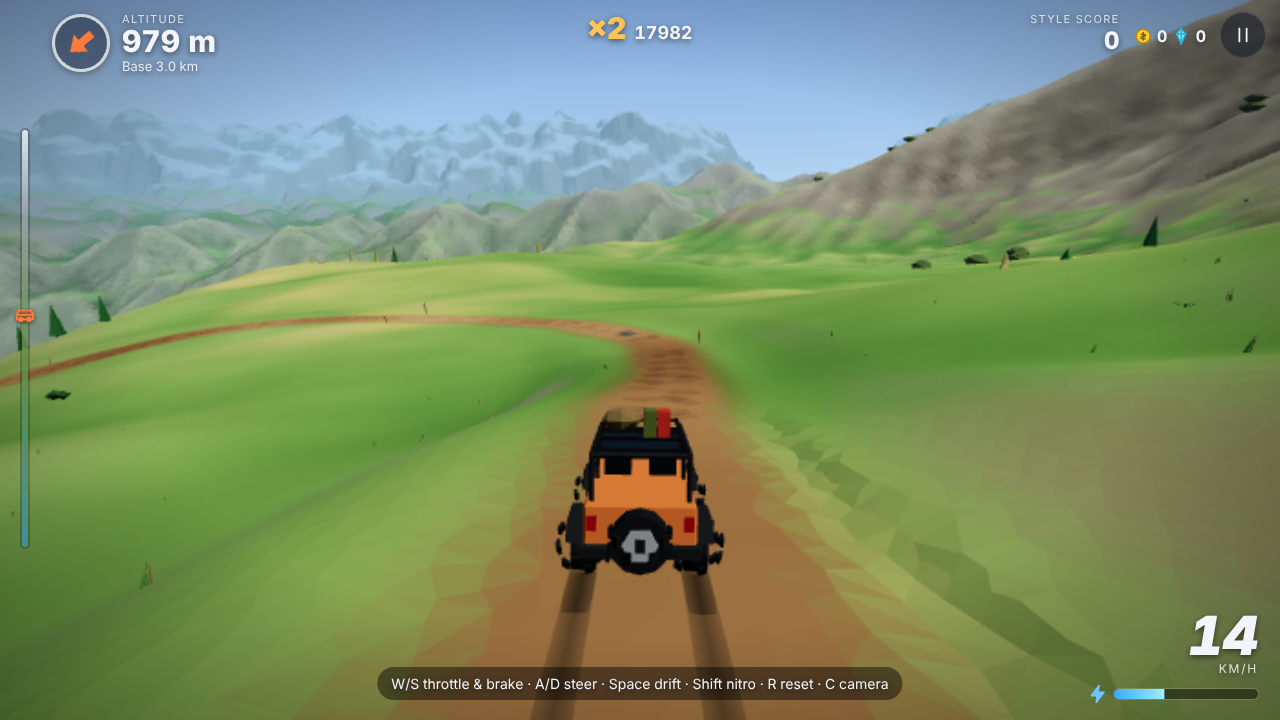
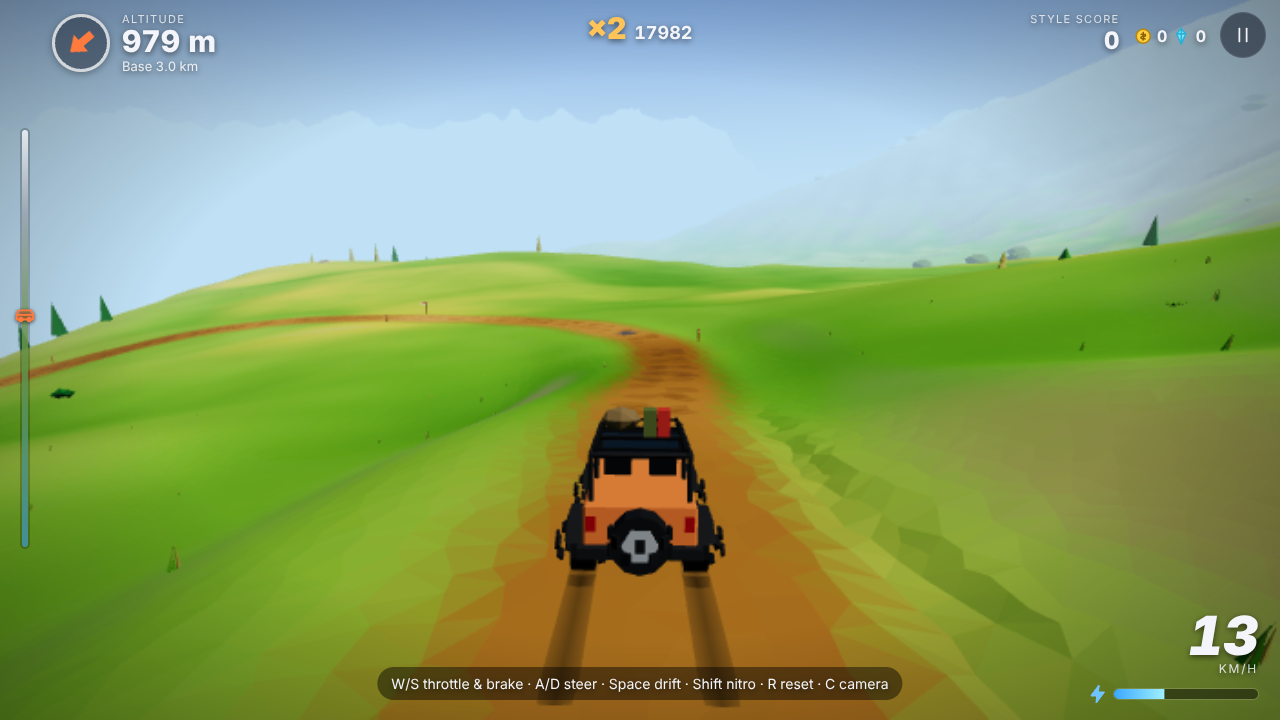
feat: more vivid colours and a real visibility fog
Palette saturation x1.4 (config.world.vividness), less distance
desaturation. Visibility fog 1 - exp(-(d/V)^2) into the sky's horizon
colour (V = 520 m clear, divided by sqrt(fogDensity)), sky dome fogged
near the horizon, clouds with a longer visibility. Fog colours now
passed in sRGB (three.js fogs after the output conversion).

Claude-Session: https://claude.ai/code/session_01Wu5oCcC2TyRys3otuAViEq

diff --git a/src/world/atmosphere.ts b/src/world/atmosphere.ts
@@ -21,7 +21,12 @@ export const atmosphereUniforms = {
   uHazeDistance: { value: 9000 },
   /** Maximum strength of the haze (0..1) and desaturation at full haze. */
   uHazeStrength: { value: 0.92 },
-  uHazeDesaturate: { value: 0.45 },
+  uHazeDesaturate: { value: 0.2 },
+  /**
+   * Visibility fog: everything fades into the horizon colour of the sky with distance,
+   * 1 - exp(-(d / V)²) (63 % at V, 95 % at 1.7 V). 0 switches it off.
+   */
+  uFogVisibility: { value: 520 },
   /** Height fog: colour, base altitude, density (1/m at the base) and falloff height (m). */
   uFogLowColor: { value: new Color('#d9e2ea') },
   uFogBase: { value: 0 },
@@ -67,6 +72,7 @@ uniform vec3 uHazeColor;
 uniform float uHazeDistance;
 uniform float uHazeStrength;
 uniform float uHazeDesaturate;
+uniform float uFogVisibility;
 uniform vec3 uFogLowColor;
 uniform float uFogBase;
 uniform float uFogDensity;
@@ -98,6 +104,10 @@ if ( uHazeDistance > 0.0 ) {
   col = mix( col, vec3( lum ), haze * uHazeDesaturate );
   col = mix( col, uHazeColor, haze );
   col = mix( col, uFogLowColor, clamp( fogLow, 0.0, 0.95 ) );
+  if ( uFogVisibility > 0.0 ) {
+    float v = dist / uFogVisibility;
+    col = mix( col, uHazeColor, 1.0 - exp( - v * v ) );
+  }
   gl_FragColor.rgb = col;
 } else {
 #ifdef FOG_EXP2
@@ -114,19 +124,37 @@ if ( uHazeDistance > 0.0 ) {
   };
 }
 
+/**
+ * Visibility of the clouds: they live in the sky, far past the ground fog, so they get a much
+ * longer visibility (they still melt into the horizon low down).
+ */
+export const cloudFogVisibility = { value: 2600 };
+
+/** Atmosphere for the clouds: the shared uniforms with their own, longer visibility. */
+export function applyCloudAtmosphere(shader: WebGLProgramParametersWithUniforms): void {
+  applyAtmosphere(shader);
+  shader.uniforms.uFogVisibility = cloudFogVisibility;
+}
+
 /** Atmosphere settings of a world: colours from the sky and time of day, weather density. */
 export function setAtmosphere(o: {
   haze: Color;
   low: Color;
   hazeDistance: number;
+  /** Visibility fog distance V (m), 0 = off. */
+  visibility: number;
   base: number;
   density: number;
   falloff: number;
 }): void {
   const u = atmosphereUniforms;
-  u.uHazeColor.value.copy(o.haze);
-  u.uFogLowColor.value.copy(o.low);
+  // three.js applies fog after the output colour space conversion: the fog colours are given
+  // in sRGB so fogged objects end exactly on the sky's horizon colour.
+  u.uHazeColor.value.copy(o.haze).convertLinearToSRGB();
+  u.uFogLowColor.value.copy(o.low).convertLinearToSRGB();
   u.uHazeDistance.value = o.hazeDistance;
+  u.uFogVisibility.value = o.visibility;
+  cloudFogVisibility.value = o.visibility * 5;
   u.uFogBase.value = o.base;
   u.uFogDensity.value = o.density;
   u.uFogFalloff.value = o.falloff;

diff --git a/src/world/sky.ts b/src/world/sky.ts
@@ -19,6 +19,7 @@ import {
 } from 'three';
 import { mergeGeometries } from 'three/examples/jsm/utils/BufferGeometryUtils.js';
 import { Rng } from '../math/rng';
+import { applyCloudAtmosphere } from './atmosphere';
 import type { TimeOfDayDef, WeatherDef } from '../data/types';
 
 const vertexShader = /* glsl */ `
@@ -36,10 +37,14 @@ uniform vec3 bottomColor;
 uniform vec3 sunColor;
 uniform vec3 sunDir;
 uniform float sunSize;
+uniform float fogBand;
 varying vec3 vDir;
 void main() {
   float h = vDir.y;
   vec3 col = h > 0.0 ? mix(horizonColor, topColor, pow(min(h * 1.6, 1.0), 0.7)) : mix(horizonColor, bottomColor, min(-h * 4.0, 1.0));
+  // Fog: the sky melts into the horizon colour (the colour fogged terrain fades to) up to
+  // fogBand above the horizon, and below it.
+  if (fogBand > 0.0) col = mix(horizonColor, col, smoothstep(0.0, fogBand, h));
   float d = max(dot(normalize(vDir), normalize(sunDir)), 0.0);
   // Sun disc, a soft halo and a wide glow that warms the horizon on the sun's side.
   col += sunColor * (pow(d, 900.0 / sunSize) * 1.6 + pow(d, 12.0) * 0.22 + pow(d, 3.0) * 0.1);
@@ -97,6 +102,7 @@ export class Sky {
           sunColor: { value: new Color(time.sunColor).multiplyScalar(1 - weather.overcast * 0.85) },
           sunDir: { value: sunDir.clone() },
           sunSize: { value: time.id === 'night' ? 0.5 : 1.5 },
+          fogBand: { value: 0 },
         },
         vertexShader,
         fragmentShader,
@@ -160,6 +166,7 @@ export class Sky {
       }),
       n,
     );
+    (this.clouds.material as MeshLambertMaterial).onBeforeCompile = applyCloudAtmosphere;
     // Three layers: high clouds, clouds at the summit's height and low banks lying in the
     // valleys (seen from above at the start); the haze shades the far ones.
     for (let i = 0; i < n; i++) {
@@ -196,6 +203,11 @@ export class Sky {
       this.clouds.setMatrixAt(i, this.m);
     });
     this.clouds.instanceMatrix.needsUpdate = true;
+  }
+
+  /** Height (sine of elevation) of the fogged band above the horizon, 0 = none. */
+  setFogBand(band: number): void {
+    this.dome.material.uniforms.fogBand.value = band;
   }
 
   private time = 0;

diff --git a/src/world/world.ts b/src/world/world.ts
@@ -9,7 +9,7 @@ import {
   Vector3,
 } from 'three';
 import { atmosphereUniforms, installAtmosphere, setAtmosphere } from './atmosphere';
-import type { QualityPreset } from '../config';
+import { config, type QualityPreset } from '../config';
 import {
   defaultPalette,
   resolvePalette,
@@ -101,14 +101,17 @@ export class World {
   /** Pushes this world's atmosphere into the shared shader uniforms. */
   private applyAtmosphereUniforms(): void {
     const w = this.weather;
+    const visibility = (config.world.fogVisibility * this.fogScale) / Math.sqrt(w.fogDensity);
     setAtmosphere({
       haze: this.hazeColor,
       low: this.fogColor,
       hazeDistance: (9000 * this.fogScale) / w.fogDensity,
+      visibility,
       base: this.course.def.lake.level,
       density: 0.00022 * w.fogDensity * w.fogDensity,
       falloff: 170,
     });
+    this.sky?.setFogBand(Math.min(0.5, (0.3 * config.world.fogVisibility) / visibility));
   }
 
   /** Fog distance multiplier (the opening fly-over looks further). */
@@ -206,6 +209,7 @@ export class World {
       course.def.summit.height,
     );
     this.scene.add(this.sky.group);
+    this.applyAtmosphereUniforms();
     this.lighting = new Lighting(
       this.scene,
       this.time,

diff --git a/src/data/palette.ts b/src/data/palette.ts
@@ -1,4 +1,5 @@
 import { Color } from 'three';
+import { config } from '../config';
 import type { PaletteKey, TimeOfDayId, WeatherId } from './types';
 
 /**
@@ -80,11 +81,19 @@ function applyTheme(c: Color, t: PaletteTheme): Color {
   return c.multiplyScalar(t.brightness);
 }
 
+const hsl = { h: 0, s: 0, l: 0 };
+/** Scales a colour's saturation (HSL), keeping hue and lightness. */
+function vivid(c: Color, k: number): Color {
+  if (k === 1) return c;
+  c.getHSL(hsl);
+  return c.setHSL(hsl.h, Math.min(1, hsl.s * k), hsl.l);
+}
+
 export function resolvePalette(palette: Palette, ...themes: PaletteTheme[]): ResolvedPalette {
   const out = {} as ResolvedPalette;
   for (const key of Object.keys(palette) as PaletteKey[]) {
     out[key] = palette[key].map((hex) => {
-      const c = new Color(hex);
+      const c = vivid(new Color(hex), config.world.vividness);
       for (const t of themes) applyTheme(c, t);
       return c;
     });

diff --git a/src/config.ts b/src/config.ts
@@ -161,6 +161,13 @@ export const config = {
     terrainJitter: 0.25,
     /** Baked ambient occlusion: darkening strength (0 = off) and ring radii (m). */
     ao: { strength: 0.32, radii: [6, 18] as number[] },
+    /**
+     * Visibility fog on a clear day (m): the scene fades into the horizon colour,
+     * 63 % at this distance and 95 % at 1.7 ×. Foggier weather divides it by √fogDensity.
+     */
+    fogVisibility: 520,
+    /** Saturation multiplier applied to the whole palette (1 = as declared). */
+    vividness: 1.4,
     /** Max ms per frame spent building terrain patches on the main thread (no worker). */
     chunkBuildBudgetMs: 4,
     /** Props are generated and instanced per cell of this size (m). */

diff --git a/ARCHITECTURE.md b/ARCHITECTURE.md
@@ -225,9 +225,15 @@ Course: start, base zone, waymarks, cairns, signs, fences, coins and crystals. P
   material: **aerial perspective** (exponential with distance: lighter, less saturated, shifted
   to the sky's horizon colour — overlapping ridges read as tone steps, no hard band) and
   **height fog** integrated analytically along the view ray (dense in the valleys, thin on the
-  crests). One set of shared uniforms updated per frame, driven by time and weather themes.
-  The sky has a sun halo and horizon glow; clouds float on three layers (high, at the summit,
-  low banks below it) and take the haze.
+  crests), then a **visibility fog** `1 − exp(−(d/V)²)` into the sky's horizon colour
+  (`config.world.fogVisibility` V = 520 m on a clear day, ÷ √fogDensity in fog and snow), so
+  the view ends at ~900 m. Fog colours are passed in sRGB because three.js applies fog after
+  the output colour conversion. One set of shared uniforms updated per frame, driven by time
+  and weather themes. The sky dome melts into the same horizon colour up to a fog band above
+  the horizon (wider when the fog is thicker), so fogged terrain never cuts out against blue
+  sky; clouds float on three layers (high, at the summit, low banks below it) with a 5×
+  longer visibility. The palette's saturation is scaled by `config.world.vividness` (1.4)
+  when it is resolved.
 - **Vegetation** (`data/vegetation.ts`, `world/propPlacement.ts`, `world/props.ts`):
   species are data (beech, spruce, pine, larch, dwarf pine: realistic heights per age,
   crown width, altitude band, wetness, colours). Trees sit on a **global Poisson disk** (a

diff --git a/CHANGELOG.md b/CHANGELOG.md
@@ -4,6 +4,21 @@ All notable changes to this project are documented here. The format follows
 [Keep a Changelog](https://keepachangelog.com/en/1.1.0/) and the project uses
 [Semantic Versioning](https://semver.org/).
 
+## [Unreleased]
+
+### Changed
+
+- More vivid colours: the whole palette's saturation is scaled by `config.world.vividness`
+  (1.4), with less desaturation in the distance.
+- Real visibility fog: the scene fades into the sky's horizon colour and the view ends at
+  about 900 m on a clear day (closer in fog and snow); the sky melts into the fog near the
+  horizon. Tunable with `config.world.fogVisibility`.
+
+### Fixed
+
+- Fog colours were applied in the wrong colour space (fogged objects came out darker than
+  the sky).
+
 ## [2.2.0] - 2026-11-14
 
 Landscape update: distant ranges, atmosphere, finer and calmer terrain, varied relief and
